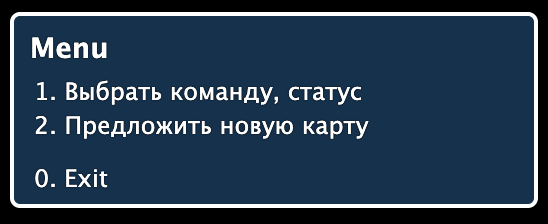
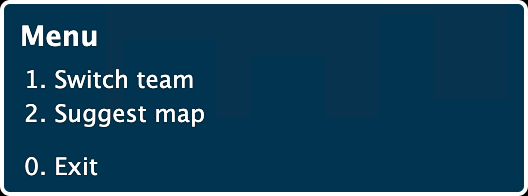
readme

Changed region(s): [[0.0, 0.0, 1.0, 1.0]]

diff --git a/README.md b/README.md
@@ -276,83 +276,122 @@ statArray = [
 
 # Модуль VOTE
 
-Позволяет игроку изменять что-то в игре. Например изменить свой статус и перейти в другую команду, или создать голосование для смены карты игры.
-
-Модуль может вызываться без запроса игрока. Пример: другой пользователь захотел сменить карту и создал голосование. У всех пользователей появилось окошко с выбором поддержать или нет это предложение.
-
-### Меню
+Модуль голосования — это интерактивная система, позволяющая игрокам принимать коллективные решения в игре.
+Он используется для таких действий, как смена карты, управление ботами или переход в другую команду.
 
 По умолчанию при вызове модуля отображается меню.
 
 ![vote-menu](https://github.com/lgick/VIMP-Tank-Battle/blob/master/public/vote-menu.png?raw=true)
 
-```
-menu = [
-  [
-    ['team', false],                     // settings [voteName, timeOff]
-    [
-      'Сменить команду, статус',         // 0: title
-      ['team1', 'team2', 'spectator'],   // 1: value
-      null                               // 2: next
-    ]
-  ],
-  [
-    ['mapUser', false],
-    [
-      'Предложить новую карту',
-      ['arena', 'arena_2.0', 'mini'],
-      null
-    ]
-  ],
-]
-```
+### Ключевые возможности
 
-Голосование может иметь:
+- **Инициация игроком и системой**: Голосования могут быть запущены как по команде игрока (например, предложить новую карту),
+  так и автоматически по игровому событию (например, выбор следующей карты по истечении времени текущей).
+- **Очередь голосований**: Если новое голосование инициируется во время уже активного, оно не отклоняется,
+  а ставится в очередь и запускается сразу после завершения текущего.
+- **Система "Cooldown"**: После завершения голосования на определенную тему (например, "смена карты") запускается таймер блокировки,
+  предотвращающий спам однотипными предложениями.
+- **Динамическая загрузка опций**: Интерфейс может запрашивать у сервера списки для голосования,
+  например, актуальный список карт или команд.
+- **Ограничение по времени**: Модуль имеет время жизни `voteTime`, и при бездействии пользователя голосование автоматически удаляется.
+  Если в голосовании указан параметр `timeOff: true`, голосование не удаляется по таймеру (используется для меню).
+- **Разрешение ничьей**: Если несколько вариантов набирают одинаковое максимальное количество голосов, победитель выбирается случайным образом.
+- **Интерактивное меню**: Игроки могут вызвать основное меню, из которого можно перейти к созданию различных типов голосований.
+- **Пагинация**: Если список вариантов для выбора слишком длинный (более 7), он автоматически разбивается на страницы с навигацией "Back" и "More".
 
-- значения подгружаемые с сервера (например список текущих пользователей)
-- неограниченное количество уровней опроса
-- неограниченное количество возможных значений (появляется навигация в виде `more` и `back`)
+### Клиентские Шаблоны
 
-### Данные поступающие с сервера могут быть двух видов
+Чтобы минимизировать передаваемые данные и отделить логику от представления, клиент использует систему шаблонов.
+Сервер отправляет только имя шаблона и параметры, а клиент формирует интерфейс на своей стороне.
 
-- Данные для создания голосования:
+Шаблоны определены в конфигурации клиента (`client.js`) и представляют собой массив со следующей структурой:
 
-```
-[
-  ['vote name', timeOff],      // [string, boolean || empty]
-  [
-    'Question',                // 0: string
-    ['Value 1', 'Value 2'],    // 1: string[]
-    null                       // 2: array || null
-  ],
-  [gameId, gameId, ...]        // string[] || empty
-]
-```
+- **`[0] (String)`: Заголовок.** Текст вопроса с плейсхолдерами вида `{0}`, `{1}` для подстановки параметров.
+- **`[1] (Array<String> | String)`: Варианты ответов.**
+  - **Массив**: статический список вариантов по умолчанию (например, `['Yes', 'No']`).
+  - **Строка**: ключ для запроса динамического списка у сервера (например, `'maps'`).
+- **`[2] (Boolean)`: Отключение таймера (`timeOff`).** Если `true`, отключает таймер для этого окна.
 
-- Массив значений на запрос от клиента:
+**Примеры шаблонов:**
 
-```
-[
-  null,
-  ['user1', 'user2', 'user3', 'user4', 'user5']
-]
+```javascript
+templates: {
+  // Шаблон для меню смены команды. Запросит список 'teams' и не будет иметь таймера.
+  teamChange: ['Choose a team', 'teams', true],
+
+  // Шаблон для системного голосования. Сервер сам предоставит список карт.
+  mapChangeBySystem: ['Choose the next map'],
+
+  // Шаблон с плейсхолдерами и статичными вариантами ответа.
+  mapChangeByUser: ['{0} suggested the map: {1}', ['Yes', 'No']],
+}
 ```
 
----
+#### 1. Сервер -> Клиент: Создание голосования
 
-Значения в голосовании `values` могут иметь вид:
+Сервер отправляет клиенту `payload` объект, который описывает, какое окно голосования нужно отобразить.
 
-- `<value>` - value выводится на экран и записывается в data
-- `<key>:<value>` - key выводится на экран, value записывается в data
+**Структура `payload`:**
 
-Модуль имеет время жизни `voteTime` и при бездействии пользователя голосование удаляется.
-Если в голосовании указан параметр `timeOff: true`, голосование не удаляется.
+- `name` (String): **Обязательно**. Имя/тип голосования. Используется клиентом для поиска нужного шаблона отображения и как идентификатор при отправке ответа.
+- `params` (Array<String>): _Опционально_. Массив строк для форматирования текста в шаблоне на стороне клиента (например, имя игрока или название карты).
+- `values` (Array<String> | String): _Опционально_. Список вариантов для голосования.
+  - Если `Array`, то это готовый список опций.
+  - Если `String` (например, `'maps'` или `'teams'`), это команда клиенту запросить соответствующий список у сервера.
 
-Результатом голосования будет массив вида `[name, data]`.
-`name` - название голосования. `data` - массив значений.
+**Примеры `payload` от сервера:**
 
+```js
+/*
+  Пример 1: Игрок 'Player1' предлагает сменить карту на 'garden'.
+  Клиент использует шаблон 'mapChangeByUser' и подставит 'Player1' и 'garden' в текст.
+  Опции ['Yes', 'No'] будут взяты из этого же шаблона на клиенте.
+*/
+{
+  "name": "mapChangeByUser",
+  "params": ["Player1", "garden"]
+}
 ```
-['vote name', ['value', 'sub-value', 'sub-sub-value']]
+
+```js
+/*
+  Пример 2: Система запустила голосование за следующую карту в конце раунда.
+  Сервер сразу предоставляет готовый список карт.
+*/
+{
+  "name": "mapChangeBySystem",
+  "values": ["pool_mini", "arena", "cross", "garden"]
+}
+```
+
+```js
+/*
+  Пример 3: Игрок открыл меню смены команды.
+  Клиент получит это, увидит values: 'teams' и немедленно отправит
+  на сервер запрос на получение актуального списка команд.
+*/
+{
+  "name": "teamChange",
+  "values": "teams"
+}
+```
+
+#### 2. Клиент -> Сервер: Ответ игрока
+
+Когда игрок делает выбор, клиент отправляет на сервер простой массив из двух элементов.
+
+**Формат ответа:** `[voteName, selectedValue]`
+
+- `voteName` (String): Имя голосования, на которое отвечает игрок (из полученного `payload.name`).
+- `selectedValue` (String): Выбранный игроком вариант.
+
+**Пример ответа от клиента:**
+
+```js
+/*
+  Игрок согласился на смену карты, предложенную в Примере 1.
+*/
+['mapChangeByUser', 'Yes'];
 ```
 
 # Модуль GAME